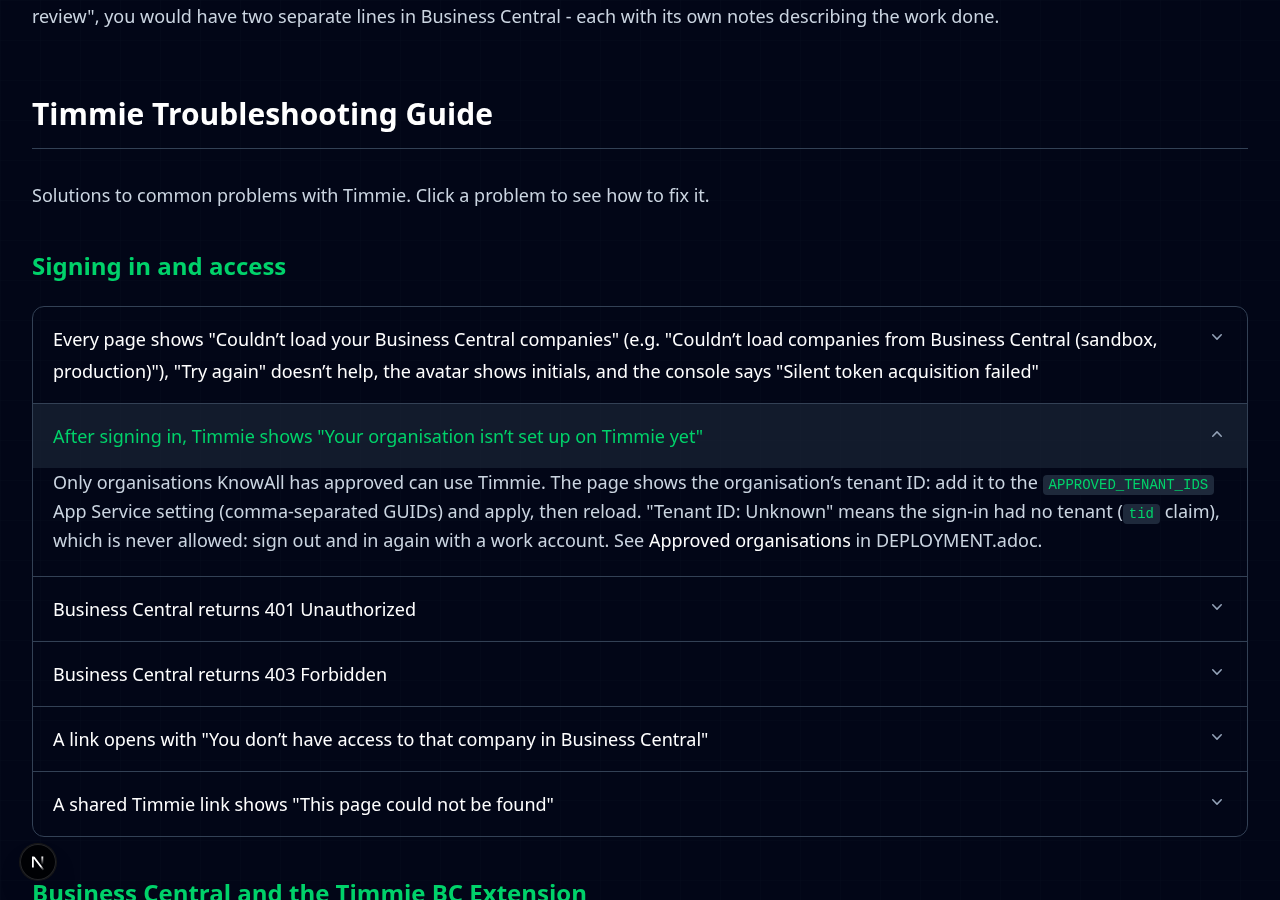
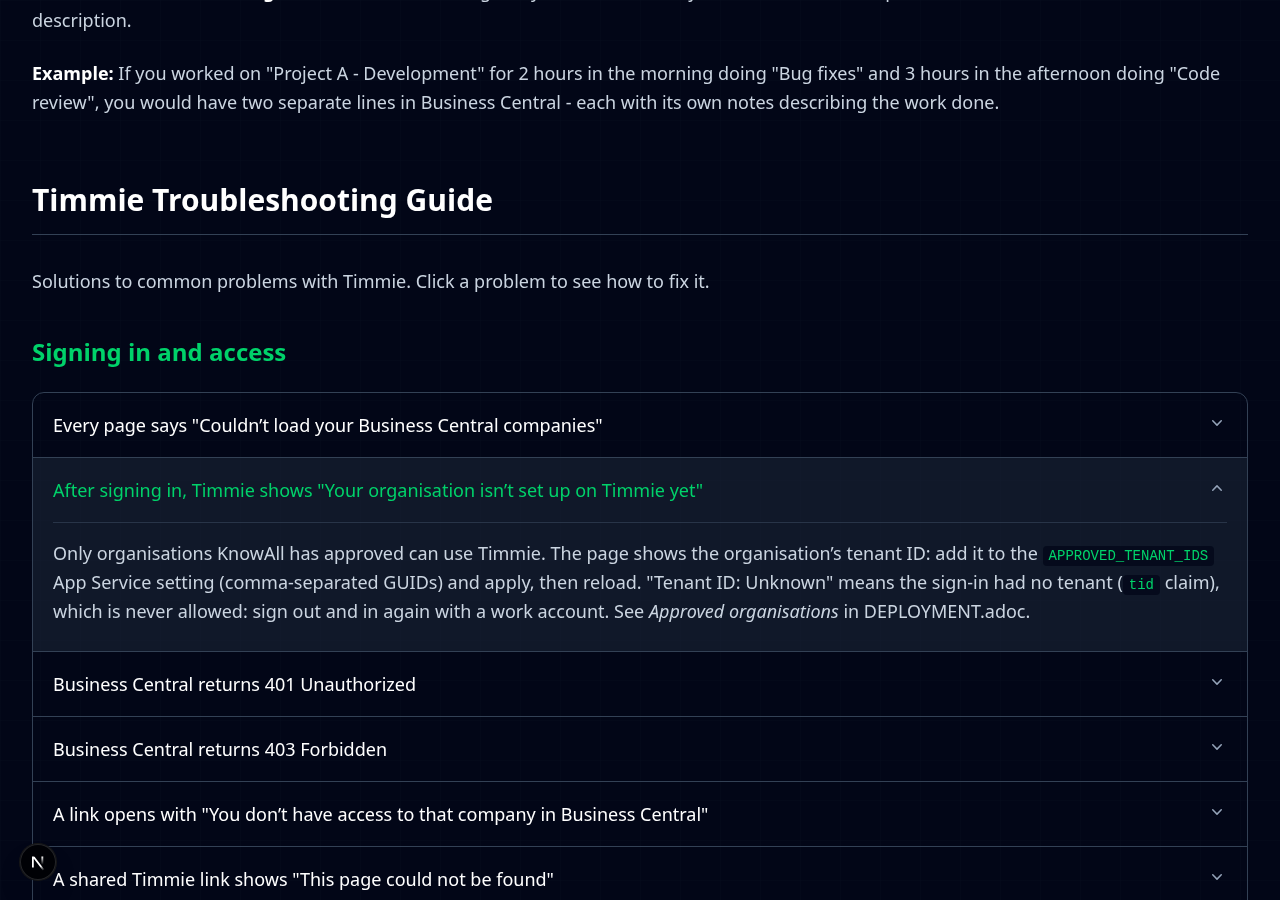
style: give an open troubleshooting answer room and shade it with its question
The open item is now one shaded block, with a divider and padding between
the question and its answer, instead of the answer sitting right against
the question's hover strip.

diff --git a/src/components/docs/AsciidocContent.tsx b/src/components/docs/AsciidocContent.tsx
@@ -26,7 +26,8 @@ function tablesToDisclosures(html: string): string {
 
   doc.querySelectorAll('table').forEach((table) => {
     const list = doc.createElement('div');
-    list.className = 'border-dark-700 divide-dark-700 not-prose my-6 divide-y rounded-xl border';
+    list.className =
+      'border-dark-700 divide-dark-700 not-prose my-6 divide-y overflow-hidden rounded-xl border';
 
     table.querySelectorAll('tbody tr').forEach((row) => {
       const [question, answer] = Array.from(row.querySelectorAll('td'));
@@ -39,16 +40,16 @@ function tablesToDisclosures(html: string): string {
 
       const details = doc.createElement('details');
       details.id = id;
-      details.className = 'group scroll-mt-24';
+      details.className = 'group open:bg-dark-800/50 scroll-mt-24 transition-colors';
 
       const summary = doc.createElement('summary');
       summary.className =
-        'hover:bg-dark-800/60 flex cursor-pointer list-none items-start justify-between gap-4 px-5 py-4 font-medium text-white transition-colors group-open:text-knowall-green [&::-webkit-details-marker]:hidden';
+        'hover:bg-dark-800/60 group-open:hover:bg-transparent flex cursor-pointer list-none items-start justify-between gap-4 px-5 py-4 font-medium text-white transition-colors group-open:text-knowall-green [&::-webkit-details-marker]:hidden';
       summary.innerHTML = `<span>${question.querySelector('p')?.innerHTML ?? question.innerHTML}</span>${CHEVRON}`;
 
       const body = doc.createElement('div');
       body.className =
-        'text-dark-300 space-y-3 px-5 pb-5 leading-relaxed [&_a]:text-knowall-green [&_a:hover]:underline [&_code]:bg-dark-800 [&_code]:text-knowall-green [&_code]:rounded [&_code]:px-1.5 [&_code]:py-0.5 [&_code]:text-sm [&_code]:break-words [&_strong]:text-white';
+        'text-dark-300 border-dark-700/70 mx-5 space-y-3 border-t pt-4 pb-6 leading-relaxed [&_a]:text-knowall-green [&_a:hover]:underline [&_code]:bg-dark-950/70 [&_code]:text-knowall-green [&_code]:rounded [&_code]:px-1.5 [&_code]:py-0.5 [&_code]:text-sm [&_code]:break-words [&_strong]:text-white';
       body.innerHTML = answer.innerHTML;
 
       details.append(summary, body);
